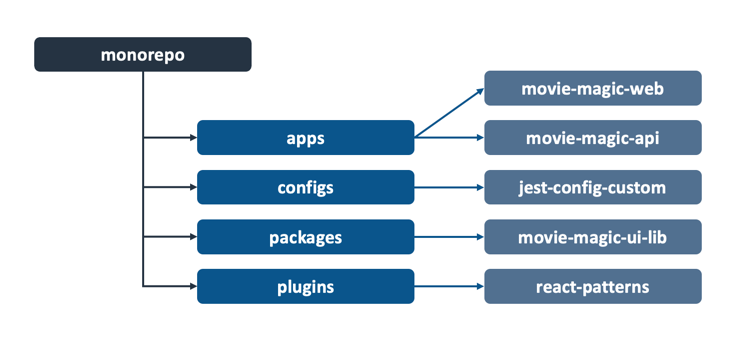
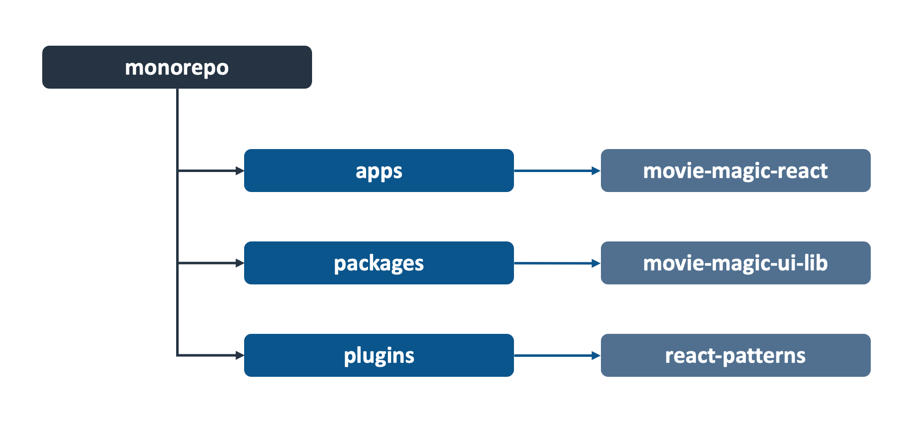
update concept docs

diff --git a/docs/concepts/monorepo-structure.md b/docs/concepts/monorepo-structure.md
@@ -6,19 +6,23 @@ sidebar_position: 1
 
 ## Background
 
-Many of the Code Shaper plugins are built with the assumption that the
-generators will be used within a monorepo. It is possible to use Code Shaper in
-a dedicated non-monorepo, however we recommend using a monorepo even if you
-house a single project in it. Monorepos give you a good structure to house other
-things like plugins and generators, while keeping the option to add more
-projects open.
+Code Shaper plugins are built with the assumption that its generators will be
+used in a monorepo. It is possible to use Code Shaper in a polyrepo (a repo that
+stores only one project), however we recommend using a monorepo – even if you
+house only a single project in it. Monorepos give you a good structure to house
+things like plugins, generators, and testing frameworks while keeping the option
+to add more projects if needed.
 
-This document describes the recommended structure for a monorepo. Please free to
-fine tune it based on your needs - all the plugins should work just fine.
+Having said that, your monorepo doesn't have to be enterprise-wide, with
+hundreds of projects in it. A small group of related projects should be fine.
 
-:::tip Other Monorepos
+This document describes the recommended structure for a monorepo. Please feel
+free to fine tune it based on your needs - all the plugins should work just
+fine.
 
-While Code Shaper generates a [Turborepo](https://turborepo.org/) by default,
+:::tip Monorepo Choices
+
+Code Shaper uses [Turborepo](https://turborepo.org/) as its monorepo. However,
 any monorepo with the concept of _workspaces_ should work as well. Examples of
 such monorepos are
 [npm Workspaces](https://docs.npmjs.com/cli/v8/using-npm/workspaces) and
@@ -40,7 +44,7 @@ This equates to the following `workspaces` definition in package.json:
 
 ```json
 {
-  "workspaces": ["apps/*", "configs/*", "packages/*", "plugins/*"]
+  "workspaces": ["apps/*", "packages/*", "plugins/*"]
 }
 ```
 
@@ -49,10 +53,8 @@ The workspaces are intended to be used as follows:
 1. **apps**: contains full-fledged applications that can be deployed on their
    own. Examples are web apps, API servers (REST and GraphQL), microservices,
    etc.
-2. **configs**: contains project-wide configurations for tools such as ESLint,
-   Jest and TypeScript.
-3. **packages**: contains reusable libraries that apps depend on.
-4. **plugins**: contains custom plugins created by the project team. These
+2. **packages**: contains reusable libraries that apps depend on.
+3. **plugins**: contains custom plugins created by the project team. These
    generally satisfy project specific standards and patterns. However, plugins
    that are reusable across projects can also be housed here and published to
    npm (or elsewhere) for easier consumption and adoption. Please see

diff --git a/docs/concepts/plugin-architecture.md b/docs/concepts/plugin-architecture.md
@@ -25,7 +25,7 @@ The diagram below shows the plugin architecture visually.
 ![Plugin Architecture](./img/plugin-architecture.png)
 
 - A _plugin_ consists of one or more generators.
-- A _generator_ (a.k.a. _item generator_) generates items based on user input.
+- A _generator_ generates artifacts based on user input.
 
 Here's an example of a plugin that generates React code. It consists of three
 generators: Component, Page and Context.
